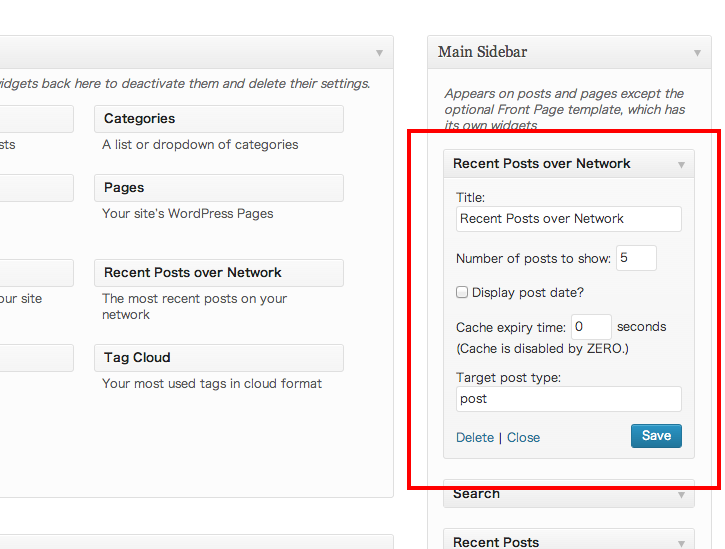
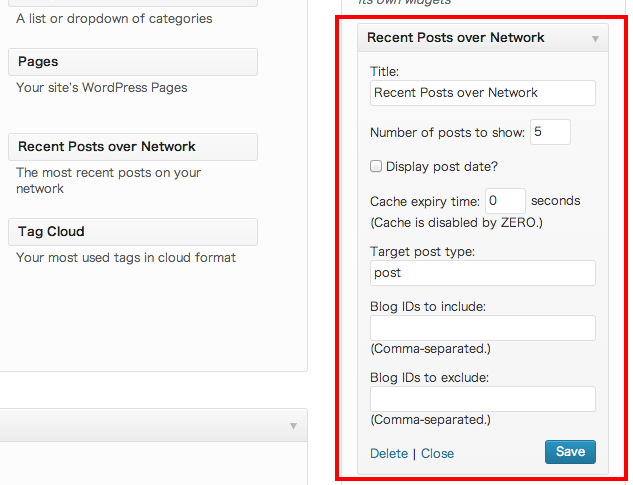
Added settings to widget, and bug fix.

diff --git a/templates/widget-form.php b/templates/widget-form.php
@@ -1,21 +1,32 @@
 <p>
 	<label for="<?php echo $widget_title_id ?>"><?php _e( 'Title:', wponw::WPONW_PREFIX ); ?></label>
-	<input class="widefat" id="<?php echo $widget_title_id ?>" name="<?php echo $widget_title_name ?>" type="text" value="<?php echo $widget_title; ?>" />
+	<input class="widefat" id="<?php echo $widget_title_id ?>" name="<?php echo $widget_title_name ?>" type="text" value="<?php echo esc_attr( $widget_title ); ?>" />
 </p>
 <p>
 	<label for="<?php echo $numberposts_id ?>"><?php _e( 'Number of posts to show:', wponw::WPONW_PREFIX ); ?></label>
-	<input id="<?php echo $numberposts_id ?>" name="<?php echo $numberposts_name ?>" type="text" value="<?php echo $numberposts; ?>" size="3" />
+	<input id="<?php echo $numberposts_id ?>" name="<?php echo $numberposts_name ?>" type="text" value="<?php echo esc_attr( $numberposts ); ?>" size="3" />
 </p>
 <p>
-	<input class="checkbox" type="checkbox" <?php checked( $show_date ); ?> id="<?php echo $show_date_id ?>" name="<?php echo $show_date_name ?>" />
+	<input class="checkbox" type="checkbox" <?php checked( $show_date ); ?> id="<?php echo $show_date_id ?>" name="<?php echo esc_attr( $show_date_name ) ?>" />
 	<label for="<?php echo $show_date_id ?>"><?php _e( 'Display post date?', wponw::WPONW_PREFIX ); ?></label>
 </p>
 <p>
 	<label for="<?php echo $transient_expires_in_id ?>"><?php _e( 'Cache expiry time:', wponw::WPONW_PREFIX ); ?></label>
-	<input id="<?php echo $transient_expires_in_id ?>" name="<?php echo $transient_expires_in_name ?>" type="text" value="<?php echo $transient_expires_in; ?>" size="3" /> <?php _e( 'seconds', wponw::WPONW_PREFIX ) ?><br />
+	<input id="<?php echo $transient_expires_in_id ?>" name="<?php echo $transient_expires_in_name ?>" type="text" value="<?php echo esc_attr( $transient_expires_in ); ?>" size="3" /> <?php _e( 'seconds', wponw::WPONW_PREFIX ) ?><br />
 	(<?php _e( 'Cache is disabled by ZERO.', wponw::WPONW_PREFIX ) ?>)
 </p>
 <p>
 	<label for="<?php echo $post_type_id ?>"><?php _e( 'Target post type:', wponw::WPONW_PREFIX ); ?></label>
-	<input class="widefat" id="<?php echo $post_type_id ?>" name="<?php echo $post_type_name ?>" type="text" value="<?php echo $post_type; ?>" />
+	<input class="widefat" id="<?php echo $post_type_id ?>" name="<?php echo $post_type_name ?>" type="text" value="<?php echo esc_attr( $post_type ); ?>" />
+</p>
+<p>
+	<label for="<?php echo $blog_ids_id ?>"><?php _e( 'Blog IDs to include:', wponw::WPONW_PREFIX ); ?></label>
+	<input class="widefat" id="<?php echo $blog_ids_id ?>" name="<?php echo $blog_ids_name ?>" type="text" value="<?php echo esc_attr( $blog_ids ); ?>" /><br>
+	(<?php _e( 'Comma-separated.', wponw::WPONW_PREFIX ) ?>)
+</p>
+<p>
+	<label for="<?php echo $exclude_blog_ids_id ?>"><?php _e( 'Blog IDs to exclude:', wponw::WPONW_PREFIX ); ?></label>
+	<input class="widefat" id="<?php echo $exclude_blog_ids_id ?>" name="<?php echo $exclude_blog_ids_name ?>" type="text" value="<?php echo esc_attr( $exclude_blog_ids ); ?>" /><br>
+	(<?php _e( 'Comma-separated.', wponw::WPONW_PREFIX ) ?>)
+
 </p>

diff --git a/WPONW_RecentPostsWidget.php b/WPONW_RecentPostsWidget.php
@@ -50,6 +50,8 @@ class WPONW_RecentPostsWidget extends WP_Widget
 		$show_date = isset( $instance['show_date'] ) ? $instance['show_date'] : false;
 		$transient_expires_in = isset( $instance['transient_expires_in'] ) ? absint( $instance['transient_expires_in'] ) : 0;
 		$post_type = isset( $instance['post_type'] ) ? $instance['post_type'] : 'post';
+		$blog_ids = ! empty( $instance['blog_ids'] ) ? $instance['blog_ids'] : null;
+		$exclude_blog_ids = ! empty( $instance['exclude_blog_ids'] ) ? $instance['exclude_blog_ids'] : null;
 
 		//Getting posts.
 		$getpostsargs = array( 
@@ -57,6 +59,8 @@ class WPONW_RecentPostsWidget extends WP_Widget
 			'numberposts' => $numberposts,
 			'transient_expires_in' => $transient_expires_in,
 			'post_type' => $post_type,
+			'blog_ids' => $blog_ids,
+			'exclude_blog_ids' => $exclude_blog_ids,
 		);
 		$getpostsargs = apply_filters( 'wponw_widget_get_posts_args', $getpostsargs );
 		$posts = wponw::get_posts( $getpostsargs );
@@ -82,6 +86,8 @@ class WPONW_RecentPostsWidget extends WP_Widget
 		$instance['show_date'] = (bool) $new_instance['show_date'];
 		$instance['transient_expires_in'] = absint( $new_instance['transient_expires_in'] );
 		$instance['post_type'] = trim( $new_instance['post_type'] );
+		$instance['blog_ids'] = wponw::cleanids( $new_instance['blog_ids'] );
+		$instance['exclude_blog_ids'] = wponw::cleanids( $new_instance['exclude_blog_ids'] );
 		$this->flush_widget_cache();
 
 		return $instance;
@@ -109,6 +115,12 @@ class WPONW_RecentPostsWidget extends WP_Widget
 		$post_type = isset( $instance['post_type'] ) ? $instance['post_type'] : 'post';
 		$post_type_id = $this->get_field_id( 'post_type' );
 		$post_type_name = $this->get_field_name( 'post_type' );
+		$blog_ids = isset( $instance['blog_ids'] ) ? $instance['blog_ids'] : null;
+		$blog_ids_id = $this->get_field_id( 'blog_ids' );
+		$blog_ids_name = $this->get_field_name( 'blog_ids' );
+		$exclude_blog_ids = isset( $instance['exclude_blog_ids'] ) ? $instance['exclude_blog_ids'] : null;
+		$exclude_blog_ids_id = $this->get_field_id( 'exclude_blog_ids' );
+		$exclude_blog_ids_name = $this->get_field_name( 'exclude_blog_ids' );
 
 		wponw::render( 'widget-form', compact(
 			'widget_title',
@@ -125,7 +137,15 @@ class WPONW_RecentPostsWidget extends WP_Widget
 			'transient_expires_in_name',
 			'post_type',
 			'post_type_id',
-			'post_type_name'
+			'post_type_name',
+			'blog_ids',
+			'blog_ids_id',
+			'blog_ids_name',
+			'exclude_blog_ids',
+			'exclude_blog_ids_id',
+			'exclude_blog_ids_name'
 		) );
 	}
+
+
 }

diff --git a/wp-over-network.php b/wp-over-network.php
@@ -5,7 +5,7 @@ Plugin URI: https://github.com/yuka2py/wp_over_network
 Description: Utilities for network site on WordPress
 Author: HissyNC, yuka2py
 Author URI: https://github.com/yuka2py/wp_over_network
-Version: 0.3.1.4
+Version: 0.4.0
 */
 
 add_action( 'plugins_loaded', array( 'wponw', 'setup' ) );
@@ -226,18 +226,10 @@ class wponw
 			//If necessary, prepare the where clause
 			$where = array();
 			if ( $blog_ids ) {
-				if ( is_array( $blog_ids ) ) {
-					$blog_ids = array_map( 'intval', (array) $blog_ids );
-					$blog_ids = implode( ',', $blog_ids );
-				}
-				$where[] = sprintf( 'blog_id IN (%s)', $blog_ids );
+				$where[] = sprintf( 'blog_id IN (%s)', self::cleanids( $blog_ids ) );
 			}
 			if ( $exclude_blog_ids ) {
-				if ( is_array( $exclude_blog_ids ) ) {
-					$exclude_blog_ids = array_map( 'intval', (array) $exclude_blog_ids );
-					$exclude_blog_ids = implode( ',', $exclude_blog_ids );
-				}
-				$where[] = sprintf( 'blog_id NOT IN (%s)', $exclude_blog_ids );
+				$where[] = sprintf( 'blog_id NOT IN (%s)', self::cleanids( $exclude_blog_ids ) );
 			}
 
 			//Build query
@@ -413,6 +405,17 @@ class wponw
 		}
 
 		return $located;
+	}
+
+
+	static public function cleanids($ids) {
+		if ( is_array( $ids ) ) {
+			$ids = array_map( 'intval', $ids );
+		} else {
+			$ids = preg_split( '/[^\d]+/', strval( $ids ), -1, PREG_SPLIT_NO_EMPTY );
+		}
+		$ids = implode(',', $ids);
+		return $ids;
 	}
 
 }
